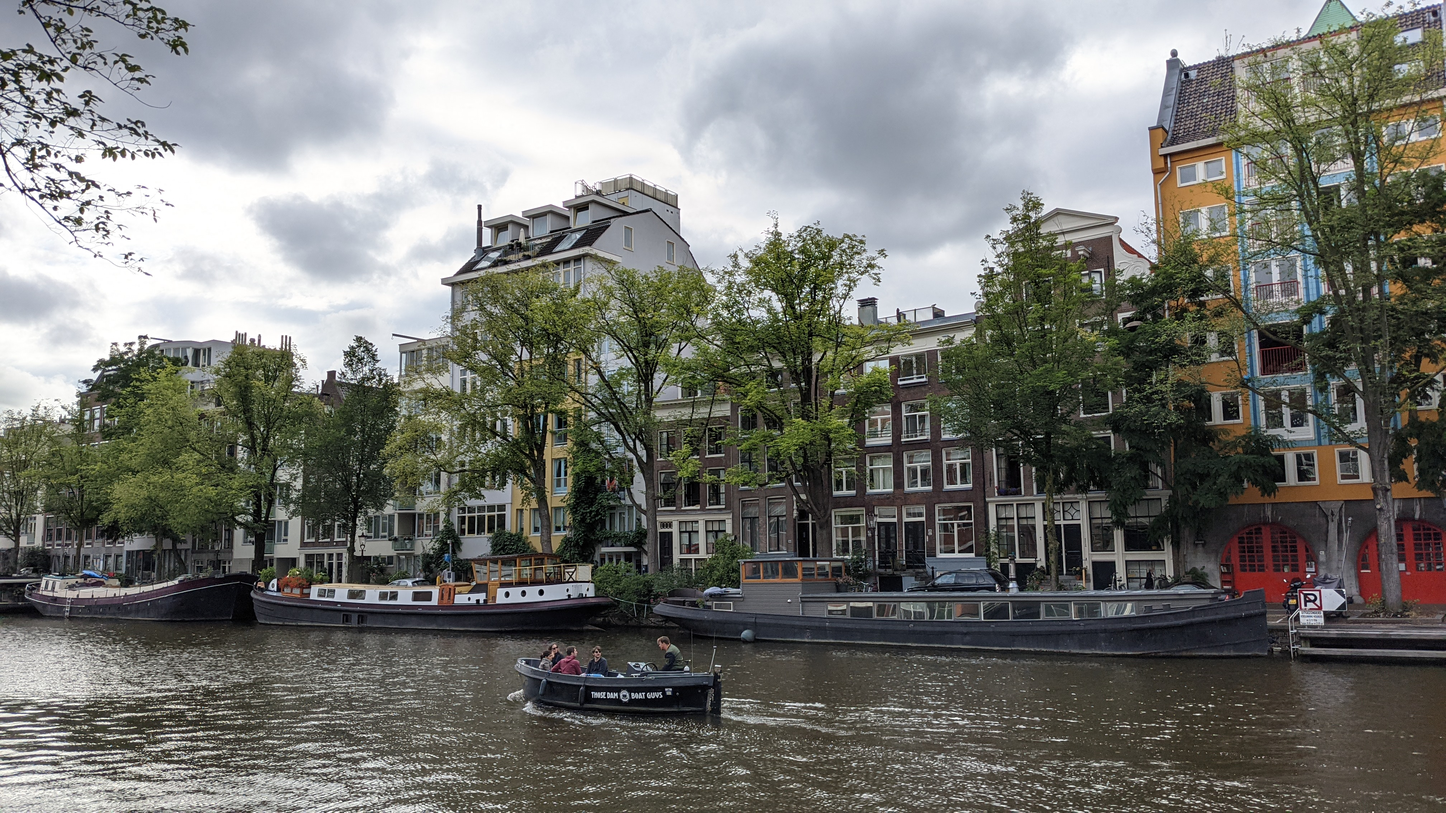
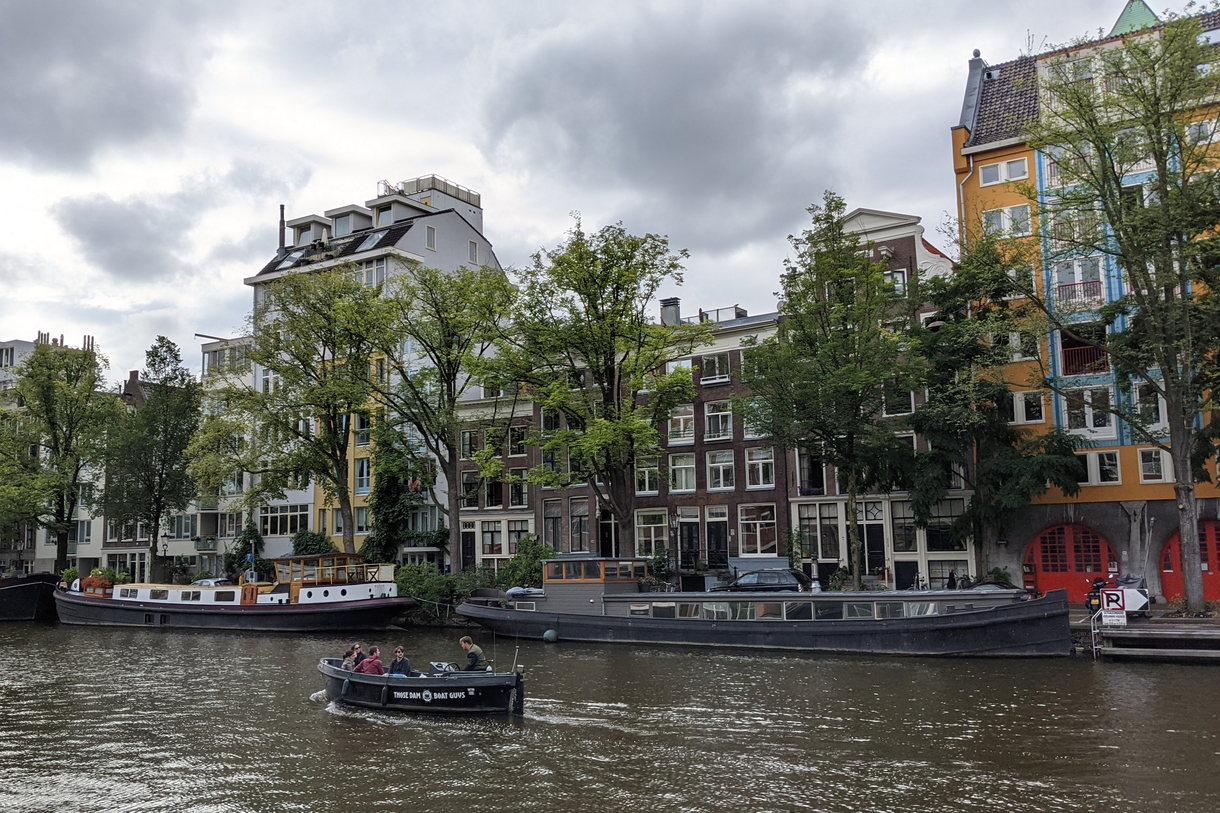
Added aperture details for Soulful portrait. Added 1 new landscape and 1 new portrait. Updated aspect ratio of Pixel4a photographs to 3:2

diff --git a/photo_list.js b/photo_list.js
@@ -265,7 +265,7 @@ export const photo_list = {
         'DSC_0111.JPG': {
             'Caption': 'Soulful',
             'Story': null,
-            'EXIF Details': 'Nikon D3200; ISO: 1600; Shutter Speed: 1/80s; Aperture: ; Focal length: 100mm'
+            'EXIF Details': 'Nikon D3200; ISO: 1600; Shutter Speed: 1/80s; Aperture: f7.1; Focal length: 100mm'
         },
         'DSC_0118.JPG': {
             'Caption': 'Ripple',

diff --git a/index.html b/index.html
@@ -193,7 +193,7 @@
 
         <footer>
             <div class="card-footer text-muted d-flex justify-content-center" style="font-size: 15px;">
-				Created using bootstrap. Last updated Saturday, 30 September 2023 04:58:37 IST
+				Created using bootstrap. Last updated Saturday, 30 September 2023 11:47:40 IST
             </div>
         </footer>
 
